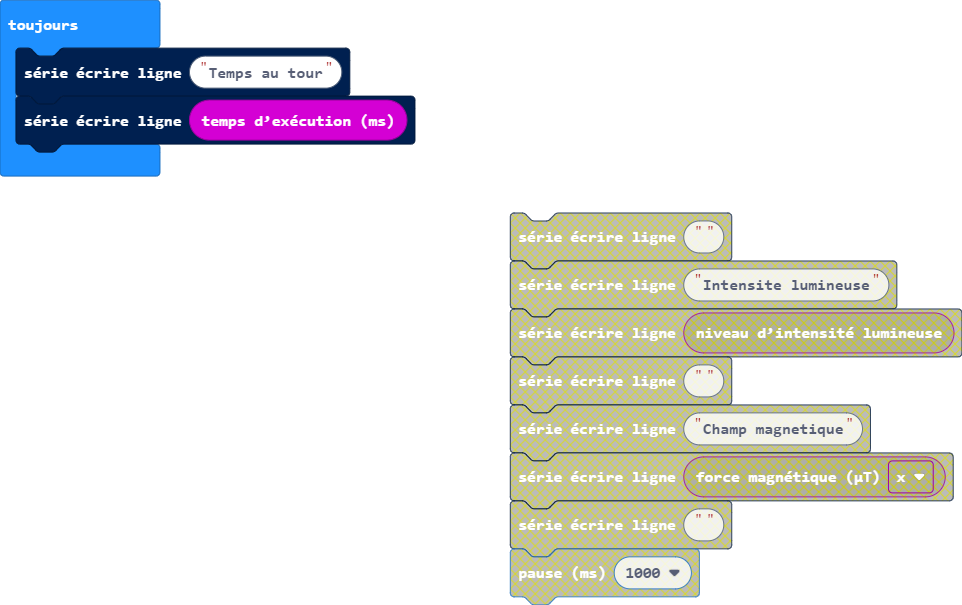
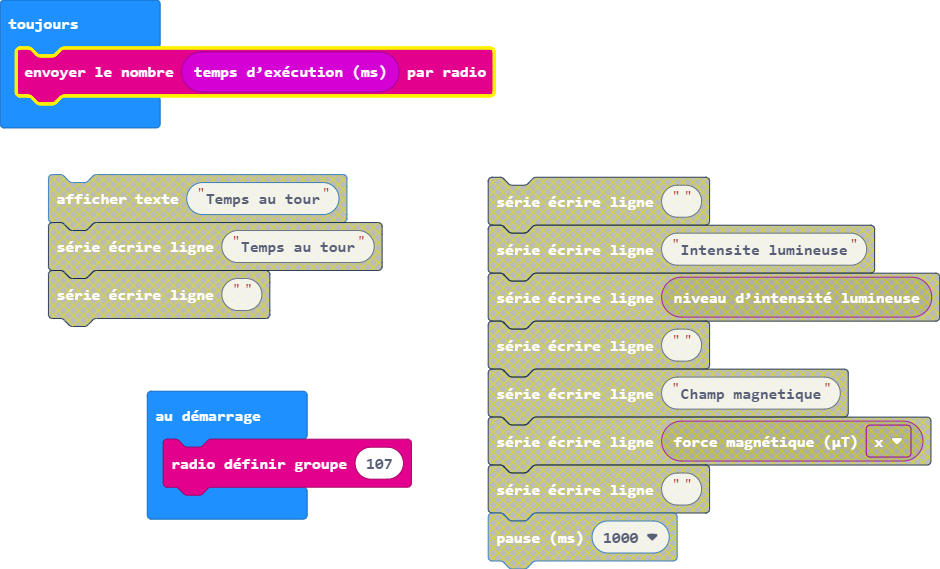
Mise à jour pxt.json, main.blocks, main.ts

diff --git a/main.ts b/main.ts
@@ -1,4 +1,4 @@
+radio.setGroup(107)
 basic.forever(function () {
-    serial.writeLine("Temps au tour")
-    serial.writeLine("" + (input.runningTime()))
+    radio.sendNumber(input.runningTime())
 })
